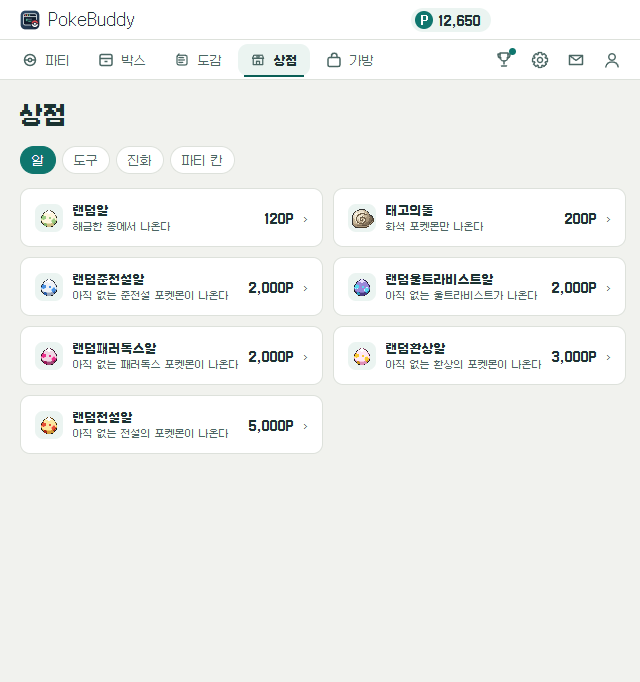
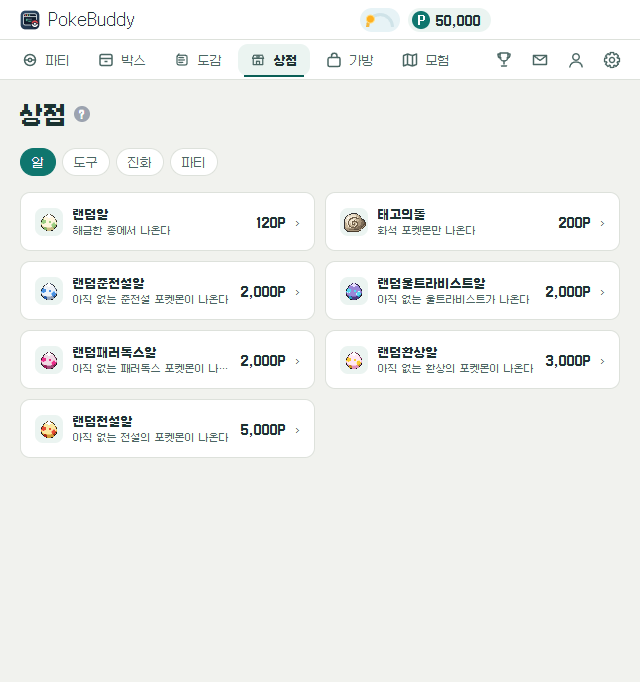
docs: [가이드] 설명서를 앱 0.22.1 에 맞게 고치고 그림을 Windows 기준으로 다시 찍는다
- 앱과 다른 문장 21곳을 고치고 빠진 내용 6곳을 더한다(랜덤 배틀 상대, 버프 배율, 적립 표, 출전 제한, 사거리, 업적 44개 등)
- 설명서 그림 10장을 Windows·깔끔한 값(50,000P, 친밀도·만복도 100)으로 다시 찍는다
- 돌봄·파티와 박스·배틀 파티·배틀·기술 바꾸기·우편함·설정 일반에 그림을 더한다

diff --git a/docs/guide.md b/docs/guide.md
@@ -21,7 +21,6 @@
 - 설치가 끝나면 앱이 뜬다. 처음이면 첫 포켓몬 선택 창이 뜬다.
 - 시작 메뉴와 바탕화면에 바로가기를 만든다.
 - 앱이 떠 있을 때 바로가기를 다시 누르면 설정창을 연다.
-- 작업 표시줄 아이콘을 우클릭하면 파티 포켓몬마다 밥 주기와 놀아주기가 보인다.
 
 ![Windows의 PC 보호 창](images/install-windows-smartscreen.png)
 
@@ -91,10 +90,10 @@ Apple Silicon 은 `PokeBuddy-<버전>-arm64.dmg`, Intel 은 `PokeBuddy-<버전>-
 포켓몬이 없는 곳을 누르면 뒤의 창이 눌린다.
 
 - 가끔 걷고 두리번거린다. 입력이 없으면 잠든다. 잠드는 시간은 설정의 `잠들기 기준` 으로 정한다(기본 5분).
-- 콕 누르면 반응하고 울음소리를 낸다.
+- 콕 누르면 반응하고 울음소리를 낸다. 놀아주기 쿨타임이 아니면 놀아 주기도 한다.
 - 끌어서 옮길 수 있다. 놓은 자리가 그 포켓몬의 집이 된다. 들고 있는 동안에는 버둥거린다.
 - 바탕화면에 나와 있는 포켓몬은 가끔 포인트·도구·진화용 도구·포켓몬을 주워 온다.
-- 파티의 포켓몬 가운데 꺼내 둔 마리(최대 6마리)가 함께 나온다. `볼에 넣기` 를 하면 파티에 남은 채로 바탕화면에서만 사라진다.
+- 파티의 포켓몬 가운데 꺼내 둔 마리(최대 6마리)가 함께 나온다. `볼에 넣기` 를 하면 파티에 남은 채로 바탕화면에서만 사라진다. 같은 메뉴 자리의 `꺼내기` 로 다시 내보낸다.
 
 놀이공간은 설정 → `화면` 탭에서 고른다.
 
@@ -108,7 +107,7 @@ Apple Silicon 은 `PokeBuddy-<버전>-arm64.dmg`, Intel 은 `PokeBuddy-<버전>-
 
 ### 메뉴
 
-포켓몬을 우클릭하면 그 포켓몬의 메뉴가 열린다. 맨 위에 이름과 상태 두 줄이 있고, 그 아래에 밥 주기, 놀아주기, 볼에 넣기, 상세 보기, 팔기가 있다. 지금 할 수 없는 항목은 흐리게 보인다. 설정창의 파티나 박스에서 포켓몬을 우클릭해도 메뉴가 열린다. 이 메뉴에는 상세 보기가 없다. 포켓몬을 누르면 바로 상세가 열린다. 박스의 포켓몬에는 옮기기가 더 있다.
+포켓몬을 우클릭하면 그 포켓몬의 메뉴가 열린다. 맨 위에 이름과 상태 두 줄이 있고, 그 아래에 밥 주기, 놀아주기, 볼에 넣기, 상세 보기, 팔기가 있다. 볼에 넣은 포켓몬은 `볼에 넣기` 대신 `꺼내기` 가 보인다. 모습을 고를 수 있는 포켓몬에는 `모습 바꾸기` 가 더 있다. 지금 할 수 없는 항목은 흐리게 보인다. 설정창의 파티나 박스에서 포켓몬을 우클릭해도 메뉴가 열린다. 이 메뉴에는 상세 보기가 없다. 포켓몬을 누르면 바로 상세가 열린다. 이 메뉴에는 `옮기기` 와 `교체` 가 더 있다.
 이유와 남은 시간은 메뉴에 적지 않는다.
 
 트레이 메뉴에는 설정창 열기, 잠시 숨기기, 고스트 모드, 종료가 있다. Windows 에서는 트레이 아이콘을 왼쪽 클릭해도 설정창이 열린다.
@@ -123,7 +122,7 @@ Apple Silicon 은 `PokeBuddy-<버전>-arm64.dmg`, Intel 은 `PokeBuddy-<버전>-
 
 만복도는 시간이 지나면 줄고, 밥을 주면 오른다. 밥은 기본먹이를 준다. 무료이고 개수 제한이 없다. 밥을 줘도 친밀도는 오르지 않는다. 상점의 프리미엄먹이는 만복도를 가득 채우고, 2시간 동안 줄지 않게 한다. 친밀도가 조금 오르고 든든함 버프도 켜진다.
 
-심심함은 일한 시간만큼 쌓인다. 연결한 CLI 가 작업하는 동안에는 더 빨리 쌓인다. 놀아 주면 심심함이 풀린다. 놀아 주면 포켓몬이 잠깐 커서를 따라온다. 가방의 장난감을 쓰면 심심함이 0 이 되고 2시간 동안 쌓이지 않는다. 신남 버프도 켜져 포인트와 경험치가 더 빨리 쌓인다. 장난감은 놀아주기와 쿨타임을 같이 쓴다.
+심심함은 일한 시간만큼 쌓인다. 연결한 CLI 가 작업하는 동안에는 더 빨리 쌓인다. 놀아 주면 심심함이 풀린다. 놀아 주면 포켓몬이 옆으로 조금 걸어가 그 자리에서 폴짝 뛴다. 가방의 장난감을 쓰면 심심함이 0 이 된다. 그 뒤에는 다시 쌓인다. 신남 버프도 2시간 켜져 포인트와 경험치가 더 빨리 쌓인다. 장난감은 놀아주기와 쿨타임을 같이 쓴다.
 
 버프가 켜져 있으면 경험치와 포인트가 더 빨리 쌓인다. 친밀도가 낮아도 버프는 같다.
 
@@ -133,13 +132,15 @@ Apple Silicon 은 `PokeBuddy-<버전>-arm64.dmg`, Intel 은 `PokeBuddy-<버전>-
 
 배고프지 않고 심심하지 않은 포켓몬은 무언가를 더 자주 주워 온다.
 
+![파티 상세 기기 창의 친밀도·만복도·심심함](images/care-detail.png)
+
 수치는 [밸런스 수치](specs/balance.md)에 있다.
 
 ## 포인트와 상점
 
 - 파티에 있는 포켓몬이 시간에 따라 포인트를 모은다. 친밀도가 높을수록 빨리 모은다. 볼에 넣은 파티 포켓몬도 모은다. 박스의 포켓몬은 모으지 않는다.
 - 버프가 켜져 있으면 포인트를 더 빨리 모은다. 배가 고프거나 심심하면 더 느리게 모은다. 파티 상세의 `포인트 적립` 줄에서 지금 속도를 본다.
-- 상점은 `알`·`포켓몬`·`도구`·`진화`·`파티` 로 나뉜다. `파티` 에서는 파티 칸과 파티 프리셋을 판다. 산 도구는 가방에 들어간다.
+- 상점은 `알`·`도구`·`진화`·`파티` 로 나뉜다. `파티` 에서는 파티 칸과 파티 프리셋을 판다. 산 도구는 가방에 들어간다.
 - 가방에서 도구를 골라 대상 포켓몬에게 쓴다.
 - 쓰지 않을 도구는 가방에서 판다. 도구를 고르고 `판매`를 누른다. 구매가의 60%를 포인트로 받는다. 기본먹이와 돌아오는 약은 팔 수 없다.
 - 바탕화면에 나와 있는 포켓몬은 가끔 포인트·도구·진화용 도구·포켓몬을 주워 온다. 주우면 `줍기` 알림 배너가 뜬다. 규칙은 [줍기](specs/game.md#줍기)에 있다.
@@ -153,9 +154,9 @@ Apple Silicon 은 `PokeBuddy-<버전>-arm64.dmg`, Intel 은 `PokeBuddy-<버전>-
 | 경로 | 언제 | 얼마 |
 |---|---|---|
 | 시간 적립 | 앱이 켜져 있는 동안 파티의 포켓몬마다 | 1마리 기본 2분에 1P. 친밀도와 돌봄에 따라 바뀐다(아래) |
-| 다른 프리셋 | 적용하지 않은 프리셋의 포켓몬마다 | 시간 적립의 20%. 버프와 손해를 받지 않는다 |
+| 다른 프리셋 | 적용하지 않은 프리셋의 포켓몬마다 | 시간 적립의 `20 + 친밀도 ÷ 10` %(20~30%). 버프와 손해를 받지 않는다 |
 | 줍기 | 바탕화면에 나온 포켓몬이 가끔 | 주운 것이 포인트면 5~10P |
-| 랜덤 배틀 | 판이 끝날 때 | 그날 첫 판 500P, 그 뒤 이기면 50P, 지면 10P. 5분에 한 번 |
+| 랜덤 배틀 | 판이 끝날 때 | 그날 첫 판 500P, 그 뒤 이기면 50P, 지거나 비기면 10P. 5분에 한 번 |
 | 업적 보상 | 업적창에서 보상을 받을 때 | 업적마다 100~1,500P |
 | 도구 판매 | 가방에서 도구를 팔 때 | 구매가의 60% |
 | 포켓몬 판매 | 박스에서 포켓몬을 팔 때 | 그 종이 나오는 알 값의 25%. 랜덤알 종 30P, 태고의돌 종 50P |
@@ -167,8 +168,8 @@ Apple Silicon 은 `PokeBuddy-<버전>-arm64.dmg`, Intel 은 `PokeBuddy-<버전>-
 - 포켓몬 1마리가 1P 를 얻는 간격은 `2분 ÷ 친밀도 배수 ÷ 적립 배율` 이다.
 - 친밀도 배수는 `1 + 친밀도 ÷ 100` 이다. 친밀도 0 이면 1배, 50 이면 1.5배, 100 이면 2배다.
 - 적립 배율은 `100% + 버프 − 손해` 다. 곱하지 않고 더한다. 가장 낮아도 10% 다.
-  - 버프: 든든함(프리미엄먹이) +60%, 신남(장난감) +60%. 각각 2시간이다.
-  - 손해: 배고픔 −30%, 매우 배고픔 −60%, 심심해 −10%, 지루해 −20%.
+  - 버프: 든든함(프리미엄먹이) +80%, 신남(장난감) +30%. 각각 2시간이다.
+  - 손해: 배고픔 −30%, 매우 배고픔 −60%, 심심해 −10%, 지루해 −20%. 배고픔과 심심함의 손해는 더한다.
 - 파티 상세 기기 창의 `포인트 적립` 줄 설명 끝에 그 포켓몬의 지금 간격이 `· 38초마다 1P` 처럼 붙는다.
 - 볼에 넣어 바탕화면에서 숨긴 포켓몬도 똑같이 모은다. 박스의 포켓몬은 모으지 않는다.
 - 여러 마리가 모은 몫은 합쳐서 들어온다. 파티 6마리가 모두 친밀도 100 이고 버프·손해가 없으면 10초에 1P 꼴이다.
@@ -180,10 +181,11 @@ Apple Silicon 은 `PokeBuddy-<버전>-arm64.dmg`, Intel 은 `PokeBuddy-<버전>-
 | 친밀도 0, 버프·손해 없음 | 2분 | 30P |
 | 친밀도 50 | 80초 | 45P |
 | 친밀도 100 | 1분 | 60P |
-| 친밀도 100, 장난감 | 약 38초 | 96P |
-| 친밀도 100, 장난감과 프리미엄먹이 | 약 27초 | 132P |
+| 친밀도 100, 장난감 | 약 46초 | 78P |
+| 친밀도 100, 프리미엄먹이 | 약 33초 | 108P |
+| 친밀도 100, 장난감과 프리미엄먹이 | 약 29초 | 126P |
 | 친밀도 100, 매우 배고픔 | 2분 30초 | 24P |
-| 다른 프리셋, 친밀도 100 | 5분 | 12P |
+| 다른 프리셋, 친밀도 100 | 3분 20초 | 18P |
 
 #### 줍기
 
@@ -219,23 +221,29 @@ Apple Silicon 은 `PokeBuddy-<버전>-arm64.dmg`, Intel 은 `PokeBuddy-<버전>-
 
 ## 파티와 박스
 
+![설정창 파티 탭과 옆에 붙은 파티 상세 기기 창](images/settings-party.png)
+
 - 새 게임의 파티는 2칸이다. 상점의 파티 칸 구매와 파티 칸 업적 보상으로 최대 6칸까지 연다. 파티 칸은 500P 다.
 - 파티 프리셋은 파티 칸 여섯 개의 묶음이다. 프리셋마다 다른 포켓몬을 넣어 둔다. 2개로 시작하고 상점에서 3개를 더 산다. 프리셋은 1000P 다. 가진 프리셋의 칸을 모두 열어야 다음 프리셋을 산다.
-- 파티 탭 위쪽의 `◀`·`▶` 를 누르면 앞·뒤 프리셋으로 바뀐다. 바탕화면의 포켓몬도 그 프리셋의 포켓몬으로 바뀐다. 다른 프리셋의 포켓몬은 박스에 보관한 것처럼 쉰다.
+- 파티 탭 위쪽의 `◀`·`▶` 를 누르면 앞·뒤 프리셋으로 바뀐다. 바탕화면의 포켓몬도 그 프리셋의 포켓몬으로 바뀐다. 다른 프리셋의 포켓몬은 포인트만 20~30% 속도로 모은다. 경험치·만복도·심심함은 멈춘다.
 - 프리셋 이름을 누르면 이름을 바꾼다. 이름은 8자까지다.
 - 파티 탭 오른쪽 위 메뉴(☰)의 `전체보기` 를 누르면 가진 프리셋을 한 줄씩 모아 본다. 줄을 누르면 그 프리셋으로 바뀐다.
 - 파티 칸은 프리셋마다 따로 연다. 상점의 파티 칸은 지금 프리셋의 칸을 먼저 연다. 지금 프리셋의 칸을 다 열었으면 칸이 남은 다른 프리셋의 칸을 바로 연다. 상품에 칸이 열릴 프리셋 이름이 보인다. 둘째 프리셋부터는 2칸으로 시작하고 나머지 4칸을 상점에서 산다.
 - 포켓몬 한 마리는 한 프리셋에만 넣는다.
 - 파티 밖의 포켓몬은 박스에 보관한다. 박스 하나는 30칸이다. 박스는 8개로 시작한다. 상점 `파티` 분류의 `박스 +1`(300P)로 하나씩 늘린다. 최대 64개다.
 - 박스 순서는 박스 탭 오른쪽 위 메뉴 단추의 `박스 순서`에서 바꾼다. 박스 타일을 끌어 다른 타일에 놓는다. 타일을 누르면 그 박스로 간다.
-- 파티와 박스에 빈 칸이 없으면 알을 열 수 없다. 포켓몬 보상과 우편의 포켓몬도 받을 수 없다. 박스를 사거나 포켓몬을 판 뒤 다시 한다.
+- 파티와 박스에 빈 칸이 없으면 알을 열 수 없다. 포켓몬 보상도 받을 수 없다. 우편의 포켓몬은 박스에만 들어간다. 박스에 빈 칸이 모자라면 파티에 빈 칸이 있어도 받을 수 없다. 박스를 사거나 포켓몬을 판 뒤 다시 한다.
 - 박스 이름을 누르면 이름을 바꾼다. 이름은 8자까지다.
 - 박스의 포켓몬을 우클릭하고 `옮기기` 를 누르면 그 포켓몬이 커서에 들린다. 원래 칸은 흐려진다. 다른 포켓몬을 누르면 자리를 맞바꾸고, 빈 칸을 누르면 그 칸에 놓는다. `◀`·`▶` 를 누르면 든 채로 다른 박스로 넘어간다. 다른 곳을 누르거나 Esc 를 누르면 취소한다. 같은 박스 안에서는 끌어서 자리를 바꿀 수도 있다. 다른 박스로 보낼 때는 `옮기기` 를 쓴다.
 - 박스 탭 위쪽의 찾기 줄에 포켓몬 이름을 넣으면 1초 뒤 모든 박스에서 찾는다. Enter 를 누르면 바로 찾는다. 찾은 포켓몬이 있는 박스로 넘어가고 그 칸이 옅게 칠해진다. `2/3` 처럼 몇 번째 결과인지 보인다. `^`·`v` 나 Enter 로 다른 결과로 옮기고 `✕` 로 지운다. 파티 프리셋에 든 포켓몬은 찾지 않는다.
-- 박스의 포켓몬을 우클릭하고 `팔기` 를 누르면 포인트를 받고 그 포켓몬을 보낸다. 파티 프리셋에 든 포켓몬은 팔 수 없다. 팔려면 먼저 박스로 옮긴다. 랜덤알에서 나오는 포켓몬은 30P, 태고의돌에서 나오는 포켓몬은 50P 다. 판 포켓몬은 되돌릴 수 없다. 전설의 포켓몬처럼 한 번만 얻는 포켓몬, 업적으로 받은 포켓몬, 마지막 한 마리는 팔 수 없다.
-- 파티 탭 오른쪽 위 메뉴(☰)의 `교체` 나 빈 파티 칸을 누르면 박스 탭으로 가고 옆에 파티 창이 뜬다. 박스의 포켓몬을 누르면 그 칸이 흐려진다. 포켓몬을 든 상태다. 파티 창의 칸을 누르면 그 칸에 놓는다. 포켓몬이 있는 칸을 누르면 두 포켓몬을 맞바꾼다. 파티 창의 포켓몬을 먼저 누르고 박스의 빈 칸을 누르면 박스에 보관한다. 다른 곳을 누르거나 Esc 를 누르면 취소한다. 파티 창 아래의 번호를 누르면 그 프리셋으로 바뀐다.
+- 박스의 포켓몬을 우클릭하고 `팔기` 를 누르면 포인트를 받고 그 포켓몬을 보낸다. 파티 프리셋에 든 포켓몬은 팔 수 없다. 팔려면 먼저 박스로 옮긴다. 랜덤알에서 나오는 포켓몬은 30P, 태고의돌에서 나오는 포켓몬은 50P 다. 판 포켓몬은 되돌릴 수 없다. 전설의 포켓몬처럼 한 번만 얻는 포켓몬, 업적으로 받은 포켓몬, 마지막 한 마리는 팔 수 없다. 배틀 파티에 든 포켓몬과 교환에 올린 포켓몬도 팔 수 없다.
+- 파티 탭 오른쪽 위 메뉴(☰)의 `교체` 나 빈 파티 칸을 누르면 파티 교체 모달이 열린다. 왼쪽은 포켓몬 고르기 판이고, 오른쪽은 지금 프리셋의 파티 6칸이다.
+  - 오른쪽에서 바꿀 칸을 먼저 누른다. 그다음 왼쪽 판의 포켓몬을 누르면 그 칸에 넣는다. 칸에 포켓몬이 있으면 두 포켓몬을 맞바꾼다.
+  - 다른 프리셋에 든 포켓몬도 골라서 데려온다.
+  - 칸을 고르고 판의 박스 빈 칸을 누르면 그 칸의 포켓몬을 박스에 보관한다.
+  - `모두 박스로` 는 지금 파티를 모두 박스에 보관한다. `완료` 로 닫는다.
 - 리자몽·팬텀처럼 메가진화하는 포켓몬은 조건을 채우면 메가스톤이 생긴다. 조건은 친밀도 100, Lv.60 이상, 친밀도 100 뒤 파티에서 24시간, 친밀도 100 뒤 놀아주기 30번이다. 장난감을 쓴 것도 놀아주기로 센다. 밥 주기는 세지 않는다. 메가스톤이 생기면 알림이 뜬다.
-- 메가스톤이 생긴 포켓몬을 파티에 두고 누르면 상세 창의 그림 오른쪽 아래에 메가스톤이 보인다. 메가스톤을 누르면 메가진화한다. 다시 누르면 원래 모습으로 돌아간다. 한 파티 프리셋에서 메가진화는 한 마리만 한다. 그란돈·가이오가의 원시회귀와 메가레쿠쟈는 이 수에 들지 않는다. 박스로 옮기면 원래 모습으로 돌아간다.
+- 메가스톤이 생긴 포켓몬을 파티에 두고 누르면 상세 창의 그림 오른쪽 아래에 메가스톤이 보인다. 메가스톤을 누르면 메가진화한다. 다시 누르면 원래 모습으로 돌아간다. 한 파티 프리셋에서 여러 마리가 메가진화할 수 있다. 적용하지 않은 프리셋의 포켓몬도 메가진화한다. 박스로 옮기면 원래 모습으로 돌아간다.
 - 코스모그처럼 모습을 고를 수 있는 포켓몬은 박스 칸에 모습들이 2×2 로 보인다. 칸을 우클릭하면 뜨는 메뉴에서 `모습 바꾸기` 를 누르고, 옆에 뜨는 말풍선에서 모습을 고른다.
 
 ## 도감과 업적
@@ -253,8 +261,8 @@ Apple Silicon 은 `PokeBuddy-<버전>-arm64.dmg`, Intel 은 `PokeBuddy-<버전>-
 - 치고마는 족자로 우라오스가 된다. 진화하면 두 태세를 모두 받고 `모습 바꾸기`로 오간다.
 - 알에서 배쓰나이가 나올 때 모습이 정해진다. 적색근 45%, 청색근 45%, 백색근 10% 다. 배쓰나이(백색근의 모습)만 대쓰여너로 진화한다. 대쓰여너는 암컷과 수컷의 그림이 다르다.
 - 디아루가·펄기아·기라티나는 `모습 바꾸기`로 오리진폼이 된다. 처음 바꿀 때 도감 기기 창 2쪽에 남는다.
-- 마기아나(500년 전의 색)와 피츄(삐쭉귀)는 업적 보상으로 얻는다. 한 번만 얻을 수 있다. 뮤, 토게피, 아르세우스, 메타몽, 라프라스도 업적 보상으로만 얻는다. 아르세우스는 디아루가·펄기아·기라티나를 모두 얻으면 받는다. 마기아나(500년 전의 색)은 볼케니온과 마기아나를 모두 얻으면 받는다. 업적 보상 포켓몬은 한 번만 얻고, 팔거나 교환할 수 없다.
-- 업적을 달성하면 알림 배너가 뜬다. 배너의 `바로가기` 나 헤더의 업적창에서 보상을 받는다. 보상은 파티 칸, 포켓몬, 포인트, 알, 도구 가운데 하나다.
+- 마기아나(500년 전의 색)와 피츄(삐쭉귀)는 업적 보상으로 얻는다. 한 번만 얻을 수 있다. 뮤, 토게피, 아르세우스, 메타몽, 라프라스, 로토무도 업적 보상으로만 얻는다. 로토무는 연결한 AI 코딩 도구가 처음 일을 하면 받는다. 아르세우스는 디아루가·펄기아·기라티나를 모두 얻으면 받는다. 마기아나(500년 전의 색)은 볼케니온과 마기아나를 모두 얻으면 받는다. 업적 보상 포켓몬은 한 번만 얻고, 팔거나 교환할 수 없다.
+- 업적은 44개다. 업적을 달성하면 알림 배너가 뜬다. 배너의 `바로가기` 나 헤더의 업적창에서 보상을 받는다. 보상은 파티 칸, 포켓몬, 포인트, 알, 도구 가운데 하나다.
 - 업적창 위쪽의 칩(`전체`·`도감`·`육성`·`알`·`탐색`·`함께`)으로 분류를 고른다. 달성하지 않은 업적은 이름 아래의 막대와 `현재 / 기준` 으로 진행도를 보인다.
 - 알 보상은 돌보미집에 빈 칸이 있어야 받는다. 포켓몬 보상은 파티나 박스에 빈 칸이 있어야 받는다.
 
@@ -289,7 +297,10 @@ Apple Silicon 은 `PokeBuddy-<버전>-arm64.dmg`, Intel 은 `PokeBuddy-<버전>-
 - 머리 오른쪽 메뉴(☰)의 `가져오기` 는 파티 프리셋 하나를 배틀 파티로 복사한다. `교체` 는 배틀 파티 교체 모달을 연다. 빈 칸을 눌러도 같다.
 - 칸 순서는 끌어서 바꾸거나, 칸을 우클릭하고 `옮기기` 를 누른 뒤 다른 칸을 눌러 바꾼다.
 - 칸을 누르면 배틀 파티 상세 기기 창이 열린다. 능력치·특성·기술을 보고 메가진화를 켠다.
+- 배틀은 6대6 실시간 오토배틀이다. 0.1초마다 포켓몬이 스스로 움직이고 기술을 쓴다. 사용자가 조작할 것은 없다.
 - 배틀은 모두 레벨 50 으로 계산한다. 레벨이 낮아도 배틀에 낼 수 있다.
+
+![모험 탭 배틀 파티와 배틀 파티 상세 기기 창](images/battle-party.png)
 
 ### 배틀 시작
 
@@ -299,12 +310,14 @@ Apple Silicon 은 `PokeBuddy-<버전>-arm64.dmg`, Intel 은 `PokeBuddy-<버전>-
 
 | 방식 | 상대 | 보상 |
 |---|---|---|
-| `랜덤 배틀` | 서버가 보여 주는 다른 사용자의 배틀 파티 3개 가운데 하나. `새로고침` 으로 다른 3개를 한 판에 한 번 본다. 배틀 파티 6칸을 다 채워야 다른 사람의 상대로 나온다 | 그날 첫 배틀 500P, 그 뒤 이기면 50P, 지면 10P. 5분에 한 번 |
+| `랜덤 배틀` | 상대를 고르지 않는다. 누르면 서버가 바로 상대를 정한다. 배틀 파티 6칸을 다 채운 다른 사용자가 있으면 절반은 그 사용자의 파티, 절반은 서버의 샘플 파티다. 그런 사용자가 없으면 샘플 파티와 싸운다. 배틀 파티 6칸을 다 채워야 다른 사람의 상대로 나온다 | 그날 첫 배틀 500P, 그 뒤 이기면 50P, 지거나 비기면 10P. 샘플 파티와 싸워도 같다. 5분에 한 번 |
 | `친선 배틀` | 링크로 부른 친구. 둘 다 `준비` 를 누르면 시작한다 | 없음. 쿨타임도 없다 |
 
 - 친선 배틀은 로그인한 계정만 한다. 링크 규칙은 친구 교환과 같다.
 - 하루는 한국 시간 0시에 바뀐다.
 - 배틀이 시작되면 바탕화면의 포켓몬이 잠시 숨고 배틀 창이 뜬다. 배틀 창을 닫으면 다시 나온다.
+
+![랜덤 배틀 창](images/battle.png)
 
 ### 출전 제한
 
@@ -313,8 +326,10 @@ Apple Silicon 은 `PokeBuddy-<버전>-arm64.dmg`, Intel 은 `PokeBuddy-<버전>-
 | 등급 | 수 |
 |---|---|
 | 초전설(뮤츠·루기아·아르세우스 등) | 1마리 |
-| 준전설(환상·준전설·울트라비스트·패러독스) | 2마리 |
+| 초전설과 준전설(환상·준전설·울트라비스트·패러독스)을 합친 수 | 3마리 |
 | 메가진화(원시회귀 포함) | 1마리 |
+
+초전설 1마리와 준전설 2마리를 낼 수 있다. 초전설 없이 준전설만 3마리를 낼 수도 있다.
 
 - 수를 넘으면 칸 순서가 뒤인 포켓몬이 출전 불가다.
 - 진화 전·후 모습은 같은 등급으로 센다.
@@ -324,7 +339,9 @@ Apple Silicon 은 `PokeBuddy-<버전>-arm64.dmg`, Intel 은 `PokeBuddy-<버전>-
 - 포켓몬마다 기술 2개로 싸운다. 1번 → 2번 → 1번 순서로 번갈아 쓴다. 차례가 온 기술이 준비되지 않았으면 기다린다.
 - 기기 창의 기술 칸을 누르면 기술 바꾸기 모달이 열린다. 오른쪽에서 바꿀 칸을 누르고 왼쪽 목록에서 기술을 누른다. 진화한 포켓몬은 고를 수 있는 기술이 더 많다.
 - 두 기술 사이의 단추로 순서를 바꾼다.
-- 물리 기술은 붙어서 치고, 특수 기술은 멀리서 쏜다.
+- 사거리는 칸으로 정한다. 앞 열(2·4·6번 칸)은 사거리 1 이라 붙어서 싸운다. 뒤 열(1·3·5번 칸)은 사거리 3 이라 멀리서 싸운다. 기술이 물리인지 특수인지와는 관계없다.
+
+![기술 바꾸기 모달](images/battle-moves.png)
 
 ## 팁
 
@@ -333,7 +350,7 @@ Apple Silicon 은 `PokeBuddy-<버전>-arm64.dmg`, Intel 은 `PokeBuddy-<버전>-
 - 파티 칸을 채운다. 파티의 포켓몬은 마리마다 따로 포인트를 모은다. 박스의 포켓몬은 모으지 않는다.
 - 다른 파티 프리셋에 든 포켓몬도 적용한 프리셋의 20~30% 속도로 모은다. 친밀도가 높을수록 빠르다. 친밀도 100 인 포켓몬은 30% 다. 쓰지 않는 프리셋도 비워 두지 않고, 친밀도를 올린 포켓몬을 둔다.
 - 친밀도를 100 으로 올린다. 친밀도 100 인 포켓몬은 2배 빨리 모은다.
-- 1시간 안에 한 번씩 밥을 주고 놀아 준다. 배가 고프거나 심심하면 10~60% 느려진다.
+- 1시간 안에 한 번씩 밥을 주고 놀아 준다. 배가 고프거나 심심하면 10~60% 느려진다. 둘이 겹치면 손해를 더해 최대 80% 느려진다.
 - 프리미엄먹이는 2시간 동안 포인트 +80%, 경험치 +20% 다. 그동안 배가 고프지 않다. 포인트를 모으려면 먹이를 쓴다.
 - 장난감은 2시간 동안 경험치 +150%, 포인트 +30% 다. 친밀도를 올리려면 장난감을 쓴다.
 - 두 도구는 함께 쓰면 효과를 더한다. 둘 다 2시간이라 한 번 들러 함께 쓰기 좋다. 같은 도구를 다시 쓰면 남은 시간이 더해지지 않고 2시간으로 바뀐다. 끝난 뒤 쓴다.
@@ -369,6 +386,8 @@ Apple Silicon 은 `PokeBuddy-<버전>-arm64.dmg`, Intel 은 `PokeBuddy-<버전>-
 - 로그인하지 않으면 앱이 익명 계정을 만들어 저장한다. `계정` 탭에 `익명으로 저장 중` 이 보인다.
 - 익명 계정으로는 교환하지 못한다. 우편함 선물도 받지 못한다.
 - 헤더의 봉투 아이콘은 우편함이다. 운영자가 보낸 편지를 읽는다. 선물이 든 편지는 열어서 `받기` 를 누른다. 선물은 로그인한 계정만 받는다.
+
+![우편함 편지 목록](images/mail.png)
 
 ### 클라우드 저장
 
@@ -462,11 +481,13 @@ Apple Silicon 은 `PokeBuddy-<버전>-arm64.dmg`, Intel 은 `PokeBuddy-<버전>-
 
 | 탭 | 항목 |
 |---|---|
-| `일반` | 잠들기 기준, 언어(한국어·영어), 로그인 시 시작, 소리, 가이드북 |
+| `일반` | 잠들기 기준, 언어(한국어·영어), 로그인 시 시작, 소리, 알림, 가이드북 |
 | `화면` | 포켓몬 표시, 고스트 모드, 놀이공간 |
 
 모달 아래 왼쪽에 지금 버전, 업데이트 상태, `패치노트` 가 있다.
 모달 아래 오른쪽 끝에 `저작권 안내` 가 있다. 누르면 브라우저에서 [README 의 라이선스 절](../README.md#라이선스)이 열린다.
+
+![설정 모달 일반 탭](images/settings-general.png)
 
 ## AI 코딩 도구 연결
 

diff --git a/docs/images/README.md b/docs/images/README.md
@@ -37,7 +37,7 @@
 |---|---|---|---|---|
 | `install-windows-smartscreen` | `install-windows-smartscreen.png` | 설명서 설치 | "Windows의 PC 보호" 첫 화면 | 넣음 (2026-09-29) |
 | `hero` | `hero.gif` | README 머리 | 에디터나 터미널 위에서 포켓몬 3~4마리가 걷고, 두리번거리고, 하나를 끌어 옮기는 장면 | 대기 |
-| `settings-party` | `settings-party.png` | README 이렇게 놀아요 | 설정창 파티 탭에 3마리 이상, 옆에 파티 상세 기기 창이 붙어 열린 화면 | 넣음 (2026-09-30, `dist/tools/dev/dev-manage.js --docs`) |
+| `settings-party` | `settings-party.png` | README 이렇게 놀아요, 설명서 파티와 박스 | 설정창 파티 탭에 3마리 이상, 옆에 파티 상세 기기 창이 붙어 열린 화면 | 넣음 (2026-09-30, `dist/tools/dev/dev-manage.js --docs`) |
 | `shop` | `shop.png` | README 설정창, 설명서 포인트와 상점 | 상점 탭 `알` 분류. 포인트가 넉넉히 보이게 | 넣음 (2026-09-30, `dist/tools/dev/dev-manage.js --docs`) |
 | `cli-state` | `cli-state.gif` | README 함께하면 더 좋은 것 | 터미널에서 Claude Code 가 일하는 동안 포켓몬이 작업 동작을 하고, 끝나면 인사하는 장면 | 대기 |
 | `install-windows-run` | `install-windows-run.png` | 설명서 설치 — Windows | `추가 정보` 를 누른 뒤 `실행` 단추가 보이는 화면 | 대기 |
@@ -45,14 +45,22 @@
 | `install-mac-keychain` | `install-mac-keychain.png` | 설명서 설치 — Mac | `PokeBuddy Safe Storage` 키체인 허용 창 | 대기 |
 | `starter` | `starter.png` | 설명서 처음 시작하기 | 첫 포켓몬 선택 창 | 넣음 (2026-09-30) |
 | `playground` | `playground.png` | 설명서 놀이공간과 포켓몬 | 설정 모달 `화면` 탭의 놀이공간 전환 단추 | 넣음 (2026-09-30, `dist/tools/dev/dev-manage.js --docs`) |
-| `care-menu` | `care-menu.png` | 설명서 메뉴 | 포켓몬 우클릭 메뉴. `팔기` 줄까지 보이게 | 다시 찍기 대기 — 2026-09-30 그림은 옛 메뉴다(남은 시간 글이 있고 `팔기` 줄이 없다) |
+| `care-menu` | `care-menu.png` | 설명서 메뉴 | 포켓몬 우클릭 메뉴. `팔기` 줄까지 보이게 | 넣음 (2026-10-24) |
 | `hatch` | `hatch.png` | 설명서 알과 부화 | 돌보미집 모달 위에 뜬 부화 결과 창 | 넣음 (2026-09-30 다시 찍음, `dist/tools/dev/dev-manage.js --docs --scene done-all --scene hatch --tab 박스 --click-text 돌보미집 --click-text 열기`) |
 | `evolve` | `evolve.png` | 설명서 성장과 진화 | 파티 상세 기기 창에서 진화 대상을 고르는 화면 | 넣음 (2026-09-30) |
 | `dex` | `dex.png` | 설명서 도감과 업적 | 도감 탭 목록. 해금한 종과 해금하지 않은 종이 섞여 보이게 | 넣음 (2026-09-30, `dist/tools/dev/dev-manage.js --docs`) |
 | `trade` | `trade.png` | 설명서 친구 교환 | 교환 모달(박스 탭 머리 메뉴의 `교환`)의 `공유 채널 만들기`·`링크로 참가` | 넣음 (2026-09-30, `dist/tools/dev/dev-manage.js --docs`) |
 | `connect` | `connect.png` | 설명서 AI 코딩 도구 연결 | 사용자 모달 `연결` 탭. CLI 하나 이상이 `연결됨` | 넣음 (2026-09-30, `dist/tools/dev/dev-manage.js --docs`) |
+| `care-detail` | `care-detail.png` | 설명서 돌봄 | 파티 상세 기기 창. 친밀도·만복도·심심함이 보이게 | 넣음 (2026-10-24) |
+| `battle-party` | `battle-party.png` | 설명서 모험과 배틀 | 모험 탭 배틀 파티와 옆에 붙은 배틀 파티 상세 기기 창 | 넣음 (2026-10-24) |
+| `battle` | `battle.png` | 설명서 배틀 시작 | 랜덤 배틀 창. 판이 진행 중이고 기술 이름·피해 숫자가 보이게 | 넣음 (2026-10-24, `POKEBUDDY_DEV_BATTLE` 로컬 엔진 판) |
+| `battle-moves` | `battle-moves.png` | 설명서 기술 | 기술 바꾸기 모달. 고를 기술이 여러 개 보이게 | 넣음 (2026-10-24) |
+| `mail` | `mail.png` | 설명서 계정과 우편함 | 우편함 편지 목록. 계정 아이디·이메일이 보이지 않게 | 넣음 (2026-10-24, 가짜 편지) |
+| `settings-general` | `settings-general.png` | 설명서 설정 | 설정 모달 `일반` 탭 | 넣음 (2026-10-24) |
 
 넣은 뒤에는 `상태` 칸을 `넣음 (날짜)` 로 바꾼다.
+
+2026-10-24 에 설명서의 모든 앱 화면을 Windows 에서 다시 찍었다. 값은 50,000P, 친밀도·만복도 100, 심심함 0 이다. 1배로 찍었고 OS 창 단추는 없다. `install-windows-smartscreen` 은 그대로 두었다.
 
 ## 찍기 전에 준비할 것
 
